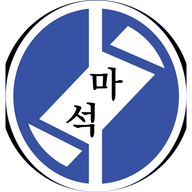
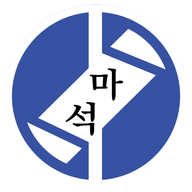
Add files via upload

diff --git a/index.html b/index.html
@@ -4,16 +4,21 @@
 <meta charset="UTF-8">
 <meta name="viewport" content="width=device-width, initial-scale=1, maximum-scale=1">
 <title>마석중학교 학교 현황</title>
-<meta name="theme-color" content="#1f5f8b">
+<meta name="theme-color" content="#3953a4">
+<link rel="manifest" href="manifest.json">
+<link rel="icon" type="image/png" sizes="32x32" href="icon-32.png">
+<link rel="apple-touch-icon" href="apple-touch-icon.png">
+<meta name="apple-mobile-web-app-title" content="마석중">
 <meta name="apple-mobile-web-app-capable" content="yes">
 <meta name="mobile-web-app-capable" content="yes">
 <style>
-:root{--c:#1f5f8b;--c2:#e8f1f8;--line:#e2e5ea;--bg:#f4f6f8}
+:root{--c:#3953a4;--c2:#eaeef9;--line:#e2e5ea;--bg:#f4f6f8}
 *{box-sizing:border-box}
 body{margin:0;font-family:-apple-system,'Apple SD Gothic Neo','Malgun Gothic',sans-serif;background:var(--bg);color:#222;font-size:15px}
 button{font-family:inherit;cursor:pointer}
 .top{position:sticky;top:0;z-index:5;background:var(--c);color:#fff;display:flex;align-items:center;justify-content:space-between;padding:10px 12px;gap:8px}
-.title{font-weight:700;font-size:17px}
+.title{font-weight:700;font-size:17px;white-space:nowrap;display:flex;align-items:center;gap:8px}
+.title img{width:30px;height:30px;border-radius:50%;background:#fff}
 .top select{background:rgba(255,255,255,.15);color:#fff;border:1px solid rgba(255,255,255,.5)}
 .top select option{color:#222}
 .tabs{display:flex;overflow-x:auto;background:#fff;border-bottom:1px solid var(--line);position:sticky;top:50px;z-index:4}
@@ -63,7 +68,7 @@ h3.sec{margin:16px 2px 8px;font-size:16px}
 input,select,textarea{font-size:15px;padding:8px;border:1px solid #ccc;border-radius:8px;background:#fff;font-family:inherit}
 .frow input{flex:1;min-width:120px}
 .btns{display:flex;gap:8px;margin-top:14px;flex-wrap:wrap}
-.login{text-align:center;padding:80px 20px}.login .logo{font-size:56px}
+.login{text-align:center;padding:70px 20px}.login .logo img{width:150px;height:150px;filter:drop-shadow(0 3px 8px rgba(0,0,0,.18))}.login h2{color:var(--c);margin:18px 0 6px}
 .badge{white-space:nowrap;background:#fff;color:var(--c);border-radius:8px;padding:3px 8px;font-size:12px;font-weight:700}
 .tag{display:inline-block;background:var(--c2);color:var(--c);border-radius:6px;padding:1px 7px;margin:2px;font-size:13px}
 #toast{position:fixed;left:50%;bottom:30px;transform:translateX(-50%);background:#333;color:#fff;padding:10px 16px;border-radius:20px;font-size:14px;z-index:50;display:none}
@@ -72,7 +77,7 @@ input,select,textarea{font-size:15px;padding:8px;border:1px solid #ccc;border-ra
 </style>
 </head>
 <body>
-<div id="app"><p class="empty">불러오는 중...</p></div>
+<div id="app"><div class="login"><div class="logo"><img src="logo.png" alt="마석중학교"></div><p class="empty">불러오는 중...</p></div></div>
 <div id="modal" class="modal hidden" onclick="if(event.target===this)App.closeM()"></div>
 <div id="toast"></div>
 
@@ -208,7 +213,7 @@ async function initFirebase(){
   fb = {db, auth, A, F};
   A.onAuthStateChanged(auth, async user => {
     if (user){ fb.uid = user.uid; S.user = user; $('#app').innerHTML = '<p class="empty">불러오는 중...</p>'; await loadYear(S.year); render(); }
-    else { S.user = null; $('#app').innerHTML = `<div class="login"><div class="logo">🏫</div><h2>${SCHOOL} 학교 현황</h2><p>구글 계정으로 로그인하세요.</p><button class="btn" onclick="App.login()">구글로 로그인</button></div>`; }
+    else { S.user = null; $('#app').innerHTML = `<div class="login"><div class="logo"><img src="logo.png" alt="마석중학교"></div><h2>${SCHOOL} 학교 현황</h2><p>구글 계정으로 로그인하세요.</p><button class="btn" onclick="App.login()">구글로 로그인</button></div>`; }
   });
 }
 
@@ -219,7 +224,7 @@ const TABS = [['classes','학급 현황'],['lessons','수업 현황'],['teachers
 const YEARS = Array.from({length:7},(_,i)=>String(curSchoolYear-1+i));
 function render(){
   $('#app').innerHTML = `
-  <header class="top"><div class="title">🏫 ${SCHOOL} 학교 현황</div>
+  <header class="top"><div class="title"><img src="logo.png" alt="">${SCHOOL} 학교 현황</div>
     <span>${USE_FB?'':'<span class="badge">연습 모드</span> '}<select onchange="App.setYear(this.value)">${YEARS.map(y=>`<option value="${y}" ${y===S.year?'selected':''}>${y}학년도</option>`).join('')}</select>
     ${USE_FB&&S.user?' <button class="mini" onclick="App.logout()">로그아웃</button>':''}</span></header>
   <nav class="tabs">${TABS.map(([k,n])=>`<button class="${S.tab===k?'on':''}" onclick="App.setTab('${k}')">${n}</button>`).join('')}</nav>
